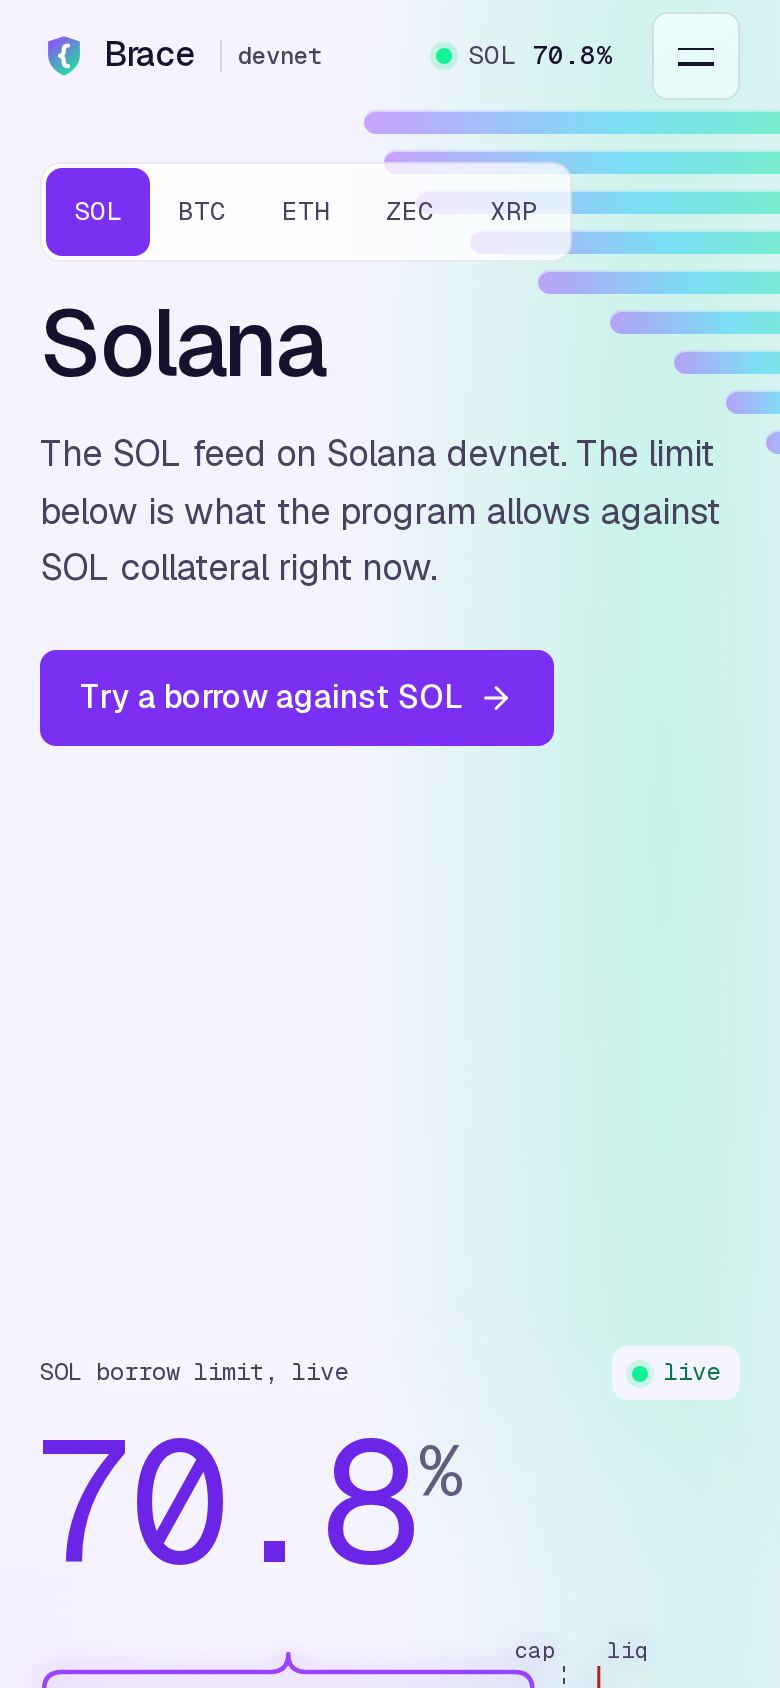
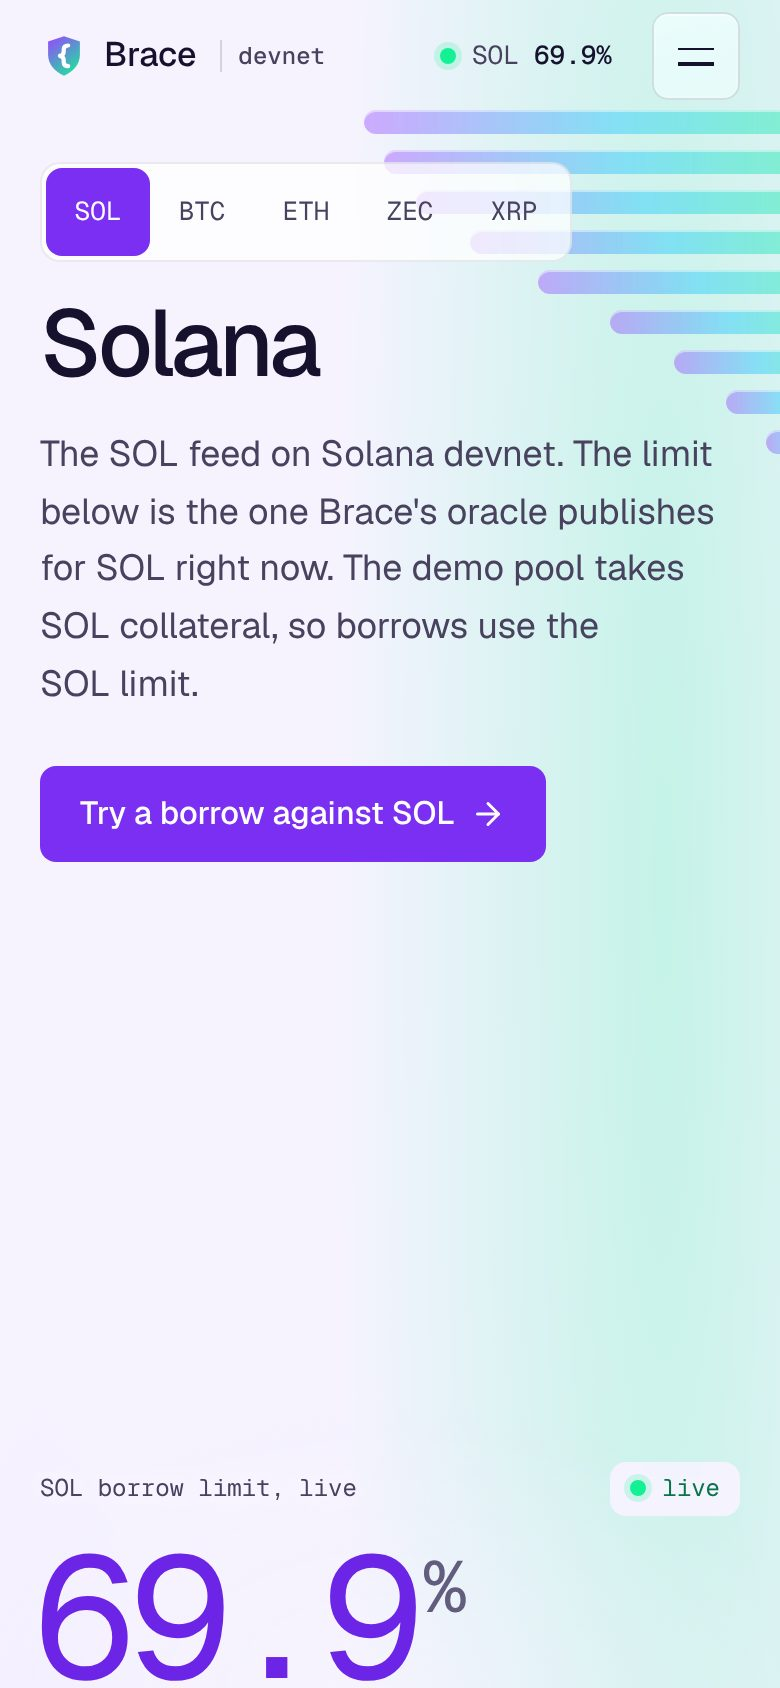
README pass (readme-playbook): retaken screenshots, factual intro, accuracy runs as a table, grouped limitations said once, History fallback described, fold label timed, daily log through Nov 20
Claude-Session: https://claude.ai/code/session_01QCfhndFDn7CsWXb6kkdhXs

diff --git a/README.md b/README.md
@@ -3,12 +3,12 @@
 **For judges:** open [braced.vercel.app](https://braced.vercel.app) (no wallet) and read SOL's live borrow limit. Then, with Phantom on Solana Devnet, borrow above that limit and watch the program reject it: [a verified rejected borrow](https://explorer.solana.com/tx/59uvMm48LV248sXSnvTV9wb8ZpVZmB8Q3ffiAsq3NU97wjU3wuSGD4EBSihWYpm1qZhrQNATA5rz5v1GWH6RVHnP?cluster=devnet). Steps are in [Try It](#try-it).
 
 <p align="center">
-  <img src="docs/images/board.png" width="260" alt="Brace on a phone: the live SOL borrow limit at 70.7% with implied volatility 73.8%, and the curve of the chance SOL ends above each strike with 8 live Gemini quotes on the fit stored onchain.">
+  <img src="docs/images/board.jpg" width="260" alt="Brace on a phone: SOL borrow limit, live, at 69.5% with implied vol 83.9%, a gauge showing the 75% cap and the 80% liquidation line, and the curve of the chance SOL ends above each strike from 13 Gemini quotes on the fit stored onchain, spot $72.10.">
 </p>
 
 **Gemini's prediction markets, turned into an onchain volatility oracle for Solana lending.**
 
-Lending markets set loan-to-value limits by governance vote and rarely change them, so limits are still the calm-week numbers when volatility arrives. Brace reads Gemini's live "price X or above" ladders, computes implied volatility onchain on Solana, and tightens borrowing limits before the move. Limits never go above the 75% admin-set cap, stale data only ever lowers them, and odds never liquidate anyone.
+Lending markets set loan-to-value limits by governance vote and rarely change them, so limits are still the calm-week numbers when volatility arrives. Brace reads Gemini's live "price X or above" ladders, computes implied volatility onchain on Solana, and lowers borrowing limits as soon as traders price a bigger move. Limits never go above the 75% admin-set cap, stale data only ever lowers them, and odds never liquidate anyone.
 
 | What | Steps, time and what it needs |
 |---|---|
@@ -25,7 +25,7 @@ You use the real app on Solana devnet, where every token is free test money. Ste
 
 1. **Open [braced.vercel.app](https://braced.vercel.app).** You see **Lending limits that move before the market does**, SOL's live borrow limit, and Gemini's ladder drawn as **chance it ends above** each strike. Scroll to **Five limits, traced for 24 hours** for SOL, BTC, ETH, XRP and ZEC.
 2. **Tap Try a borrow.** The borrow page shows the same **SOL live limit**, a **Connect wallet** button and a **Before you start** list.
-3. **Open [History](https://braced.vercel.app/history).** You see 24 hours of SOL's limit and implied volatility, and **Blocked and allowed borrows**: each **Blocked by the program** row is a borrow Solana rejected, recorded by QuickNode Streams. If History says it could not load, the relayer's free history store hit its daily read limit; it resets at 00:00 UTC (see Known Limitations). Limits and borrowing are unaffected.
+3. **Open [History](https://braced.vercel.app/history).** You see 24 hours of SOL's limit and implied volatility, and **Blocked and allowed borrows**: each **Blocked by the program** row is a borrow Solana rejected, recorded by QuickNode Streams. If the relayer's free history store has hit its daily read limit, the page says **Live history is paused for today** and charts the last 24 hours recorded before the pause; it resets at 00:00 UTC (see [Known Limitations](#known-limitations)). Limits and borrowing are unaffected.
 
 You just saw a borrow limit computed onchain from Gemini's odds, and the borrows it has already stopped.
 
@@ -53,7 +53,17 @@ Measured with Playwright Chromium at a 390 px phone viewport, cold cache, from o
 - **The math works on real Gemini data.** A captured SOL ladder used as a test fixture fits onchain to 82.7% implied volatility and a 69.6% limit (`sigma_bps` 8272, `max_ltv_bps` 6960), matching an independent float reference ([`programs/brace/tests/oracle.rs`](programs/brace/tests/oracle.rs), [`src/math.rs`](programs/brace/src/math.rs) unit tests).
[1 lines of base64/hex data omitted]
 - **Reviewed in six passes** by four separate AI reviewer sessions (not a professional audit): no critical or high findings; fixed mediums each have a reproducing test, and the open ones are listed in Known Limitations ([`docs/reviews.md`](docs/reviews.md)).
-- **Accuracy (Alchin's tracker, [`tracker/`](tracker/)):** across 8,303 one hour forecasts posted between Nov 17 04:59 and Nov 19 03:22 Lagos, the price stayed inside Brace's 1σ band 79.47% of the time and inside 2σ 97.21% (a perfectly calibrated band would hold about 68% and 95%). Counting only non overlapping hourly forecasts: 1σ 135/164 (82.32%), 2σ 160/164 (97.56%). So the limits run conservative, which is the safe side for a lender. Per asset 1σ: SOL 81.45%, BTC 71.38%, ETH 79.43%, XRP 84.91%, ZEC 81.16%. 24 hour results are preliminary because of feed gaps; BTC was under the target at 24h on this sample. These check the 1 hour 1σ and 2σ bands; the limit itself uses a 3σ 24 hour move, which needs a longer record to test. A reproducible snapshot is committed in [`docs/accuracy/2026-11-19/`](docs/accuracy/2026-11-19/): the same tracker on rows through Nov 19 06:56 Lagos gives 1σ 77.65% and 2σ 96.33% across 9,017 one hour forecasts. With a day more data, a Nov 20 snapshot in [`docs/accuracy/2026-11-20/`](docs/accuracy/2026-11-20/) gives 1σ 78.15% and 2σ 96.55% across 15,656 forecasts, and Alchin's own run that morning gave 79.0% and 96.7% across 14,393.
+- **Accuracy (Alchin's tracker, [`tracker/`](tracker/)):** the price landed inside Brace's 1σ band about 78 to 79% of the time across every run, and inside 2σ about 96 to 97%. A perfectly calibrated band holds about 68% and 95%, so the limits run conservative, the safe side for a lender. Each forecast is a one hour band posted every minute, so consecutive forecasts overlap.
+
+  | Run | Forecasts | 1σ | 2σ | Check it |
+  |---|---|---|---|---|
+  | Alchin, pull at 04:22 Lagos, Nov 19 (rows from Nov 17 04:59) | 8,303 | 79.47% | 97.21% | His tracker run; same rows feed the snapshots below |
+  | Same, only non-overlapping hours | 164 | 82.32% | 97.56% | |
+  | Snapshot to Nov 19 06:56 Lagos | 9,017 | 77.65% | 96.33% | [`docs/accuracy/2026-11-19/`](docs/accuracy/2026-11-19/), reproduce command inside |
+  | Alchin, run at 01:17 Lagos, Nov 20 | 14,393 | 79.0% | 96.7% | His tracker run |
+  | Snapshot to Nov 20 05:35 Lagos | 15,656 | 78.15% | 96.55% | [`docs/accuracy/2026-11-20/`](docs/accuracy/2026-11-20/), reproduce command inside |
+
+  Per asset at 1σ on the Nov 20 snapshot: SOL 76.9%, BTC 70.4%, ETH 78.8%, XRP 83.4%, ZEC 81.8%. These test the 1 hour 1σ and 2σ bands; the limit itself uses a 3σ 24 hour move, which needs a longer record (24 hour results so far are preliminary because of feed gaps).
 
 ## What's New Here
 
@@ -106,9 +116,9 @@ Sources were fetched on Nov 17, 2026. Each competitor cell is as that vendor's c
 | Brace program (oracle, limits, pool, liquidation) | Live on Solana devnet at the address above. 52/52 Rust tests passed on Nov 19, 2026. |
 | Relayer Worker (Cloudflare, every minute) | Live at [brace-relayer.ohjaye0.workers.dev](https://brace-relayer.ohjaye0.workers.dev/health). 117/117 worker tests passed on main on Nov 19, 2026. The live Worker runs an earlier build: the forged-history fix (audit pass 6, M3) and the backup RPC (PR #4) are on main and deploy next. |
 | Keyed backup RPC for the relayer (PR #4) | In code on main and covered by the worker tests; not yet deployed to the live Worker. |
-| Streams sink and `/history` API | Live. `/history?asset=SOL` is oldest-first. `/actions` has recorded the verified deposit, blocked borrow and accepted borrow. Bad input gets a 400 with a plain error; responses are capped at 10,000 rows (page forward with `since`). |
+| Streams sink and `/history` API | Live, except when the free D1 read limit runs out (see [Known Limitations](#known-limitations)). `/history?asset=SOL` is oldest-first. `/actions` has recorded the verified deposit, blocked borrow and accepted borrow. Bad input gets a 400 with a plain error; responses are capped at 10,000 rows (page forward with `since`). |
 | Web app (risk board, borrow flow, history) | Live at [braced.vercel.app](https://braced.vercel.app). 108/108 app tests passed on main on Nov 19, 2026. The board and History read the relayer through the app's cached `/api/history` and `/api/actions` routes. |
-| Accuracy tracker (Python, [`tracker/`](tracker/)) | Measured by Alchin from a live `/history` pull at 04:22 Lagos, Nov 19: 1σ band held 79.47% and 2σ 97.21% across 8,303 one hour forecasts (see Proof It's Real). |
+| Accuracy tracker (Python, [`tracker/`](tracker/)) | Running. Polls `/history` every 5 minutes, fetching only new rows after the first pull. Latest: 1σ 78.15% and 2σ 96.55% across 15,656 one hour forecasts (Nov 20 snapshot; see [Proof It's Real](#proof-its-real)). 10/10 tracker tests pass (`python3 tracker/test_tracker.py`). |
 
 ## More Ways to Test
 
@@ -124,13 +134,13 @@ Checks the app returns 200, the relayer is healthy and all five feeds posted in 
 
 </details>
 
-<details><summary><strong>2. One command for everything (not timed end to end; Rust 1.89, Solana CLI with cargo build-sbf, Node 20+)</strong></summary>
+<details><summary><strong>2. One command for everything (about 15 minutes from cold; Rust 1.89, Solana CLI with cargo build-sbf, Node 20+)</strong></summary>
 
 ```bash
 scripts/verify.sh
 ```
 
-Builds the program, runs the Rust, worker and app suites with type checks, builds the app, then runs the live checks. It stops at the first failure. The fuzz run alone took 48 to 80 s on Nov 19, 2026, depending on the machine; the whole script takes about 15 minutes from cold.
+Builds the program, runs the Rust, worker and app suites with type checks, builds the app, then runs the live checks. It stops at the first failure. The fuzz run alone took 48 to 80 s on Nov 19, 2026, depending on the machine. If the history store is paused, the last line says so instead of `all checks passed`.
 
 </details>
 
@@ -150,7 +160,7 @@ Expected: 52 Rust tests (15 math, 12 adversarial, 1 fuzz run of 3,000 random act
 
 ## Screenshots
 
-Real captures of the live site on a 390 px phone viewport, Nov 19, 2026. Devnet data, test money.
+Real captures of the live site on a 390 px phone viewport, Nov 20, 2026, 06:00 Lagos. Devnet data, test money.
 
 <p align="center">
   <img src="docs/images/borrow.jpg" width="160" alt="The borrow page: Borrow up to the line, SOL live limit 70.8% at spot $74.46, and a Connect wallet button.">
@@ -196,7 +206,7 @@ Each Gemini contract "price ≥ K at expiry" trades at a probability. Under a lo
 1. Keep quotes with both sides, spread ≤ 15 cents, mid between 3% and 97%; skip strikes more than 15% from the middle strike.
 2. Least-squares fit gives σ√T and the implied median. The strikes must span at least 0.5%, and σ must be at least 5%.
 3. Move over 24 hours: s = σ√T·√(24h/T). Limit = 80% × (1 − 3s), clamped between 30% and the 75% admin-set cap.
-4. Stale data: hold the last limit for 5 minutes, then step down 2.5 points every 5 minutes, never below 50% (or the last limit if lower). After an hour, borrowing and liquidation pause.
+4. Stale data: hold the last limit for 5 minutes, then step down 2.5 points every 5 minutes, never below 50% (or the last limit if lower). After an hour without a confident post, borrowing and liquidation pause.
 
 </details>
 
@@ -214,20 +224,19 @@ Reviewed in six passes (correctness, access control, financial logic, adversaria
 
 ### Known Limitations
 
-- **The relayer is trusted** for quotes and the spot price. Mitigations: spot only moves on confident posts, must sit within 3% of the ladder's implied median, and goes stale after an hour.
-- **`initialize` can be front-run** between deploy and setup. Deploy, initialize and pool setup run back to back from one script, and the stored admin is checked afterwards.
-- **Liquidation repays the full debt** only. Test USD has no value.
+**Trust and control**
+- **The relayer is a single trusted key** for quotes and the spot price; nothing onchain proves the quotes came from Gemini, and there is no quorum or second source. Mitigations: spot only moves on confident posts and must sit within 3% of the ladder's implied median, and every limit stays between 30% and 75%. Thin ladders (3 two-sided quotes, spreads up to 15 cents) can still pull the fitted volatility down, inside that band.
 - **One admin key, no timelock.** The admin (`FncbMM…SvdM` on devnet) can change the 75% cap, the 80% liquidation threshold and the other parameters at any time with `set_params`. Odds never trigger a liquidation, but a lower threshold set by the admin would. Production needs a multisig and a timelock.
-- **Collateral can be priced with an old spot for up to an hour.** Spot only updates on confident posts. In a crash where Gemini's ladder lags spot by more than 3%, liquidation runs on the pre-crash price; after a dip, a healthy position can be liquidated on the old dip price. Both last at most an hour, until `StalePrice`. The fix is a separate, shorter freshness clock for spot (audit pass 6, M1 and M2).
+- **`initialize` can be front-run** between deploy and setup. Deploy, initialize and pool setup run back to back from one script, and the stored admin is checked afterwards.
+
+**Prices and liquidation**
+- **Collateral can be priced with a spot up to an hour old.** Spot only updates on confident posts. Borrows meanwhile face a limit that decays toward the 50% stale floor. In a crash where Gemini's ladder lags spot by more than 3%, liquidation runs on the pre-crash price; after a dip, a healthy position can be liquidated on the old dip price. An hour after the last confident post, `liquidate` fails with `StalePrice`, so positions can build bad debt. That is the cost of failing safe; the fix is a separate, shorter freshness clock for spot (audit pass 6, M1 and M2).
+- **Liquidation repays the full debt only, and there is no write-off.** The liquidator gets SOL worth the debt plus 5%, capped at the collateral, so above about 95% LTV the bonus shrinks and above 100% liquidating loses money.
 - **Rounding can loosen a limit slightly.** Midpoints snap to 50 bps steps before the fit, so on steep or narrow ladders the limit can be up to about 1.5 points looser than a floating point fit, still capped at 75%.
-- **Liquidation pauses on a stale price.** In a fast crash the fits can go non-confident, so spot stops updating; an hour after the last confident post, `liquidate` fails with `StalePrice` and positions can build bad debt. That is the cost of failing safe.
-- **No write-off for deeply underwater positions.** Liquidation pays the debt plus a 5% bonus in SOL, capped at the collateral, so above about 95% LTV the bonus shrinks and above 100% liquidating loses money. There is no instruction to write such a position off.
-- **Borrows can price collateral with spot up to an hour old.** The limit decays toward the 50% stale floor meanwhile (2.5 points every 5 minutes), but the price itself is not refreshed.
-- **Thin ladders can be leaned on.** A post counts with only 3 two-sided quotes and spreads up to 15 cents, so a few quotes could pull the fitted volatility down; the limit that results is still capped at 75%.
-- **The relayer is a single trusted key.** One keypair posts every feed; there is no quorum or second source.
-- **History can pause; limits cannot.** The relayer stores Streams rows in Cloudflare D1 on the free plan, which has a daily read limit. When it runs out, the relayer's `/history` and `/actions` answer 503 until 00:00 UTC, and the History page says so. Onchain posting, the board's live limits and borrowing are unaffected. The app now reads history through a cached proxy (5 minute buckets, served stale on error) so viewers share one read.
-- **Interest is 0%.** This is a risk-limit demo, not a full lending market.
-- **Devnet only.** Gemini liquidity is thin: quotes exist, trades are rare, which is why confidence scoring and fail-safe staleness exist.
+
+**Demo scope**
+- **Devnet only, 0% interest, test USD with no value.** This is a risk-limit demo, not a full lending market. Gemini liquidity is thin: quotes exist, trades are rare, which is why confidence scoring and fail-safe staleness exist.
+- **History can pause; limits cannot.** The relayer stores Streams rows in Cloudflare D1 on the free plan, which has a daily read limit. When it runs out, the relayer's `/history` and `/actions` answer 503 until 00:00 UTC. The History page then says **Live history is paused for today** and charts a saved copy of the last 24 hours recorded before the pause. Onchain posting, the board's live limits and borrowing are unaffected.
 - **Phantom simulation of an over-limit borrow.** Phantom simulates before it signs, and the program refuses an over-limit borrow, so Phantom shows "Failed to simulate the results of this request". The user has to confirm past that warning for the rejected transaction to land onchain; the borrow page explains each tap first. Phantom also shows a new-domain notice for any site it has not reviewed yet.
 
 <details><summary><strong>Repository</strong></summary>
@@ -265,7 +274,8 @@ Reviewed in six passes (correctness, access control, financial logic, adversaria
 | Mon Nov 16 | Spec and plan, Anchor workspace, onchain implied volatility math, oracle feed and quote posting, demo lending pool, fuzz and invariant suite, first review fixes |
 | Tue Nov 17 | Review pass 5 fixes, Cloudflare relayer Worker, Streams sink and history API, devnet deploy, risk board, borrow flow, history page, verify script, MIT licence |
 | Wed Nov 18 | Repo hygiene, Alchin's forecast validation tracker, site redesign, relayer D1 outage fix, Phantom borrow proof, new logo and share card |
-| Thu Nov 19 | Fresh test counts, privacy page, web analytics, rate limits, tablet header fix, README claims audit, keyed backup RPC (PR #4), this README |
+| Thu Nov 19 | Fresh test counts, privacy page, web analytics, rate limits, tablet header fix, keyed backup RPC (PR #4), ship check, cached history proxy, audit pass 6 (independent security audit, two cold judge runs, claims audit) and its fixes, security headers, tracker polling fix |
+| Fri Nov 20 | Nov 20 accuracy snapshot, refreshed History fallback, team names, retaken screenshots, this README pass |
 
 Check: `git log --reverse --format='%h %ad %s' --date=iso`.
 

diff --git a/docs/submission-draft.md b/docs/submission-draft.md
@@ -147,7 +147,7 @@ solana, anchor, rust, typescript, next.js, react, vercel, cloudflare-workers, cl
 
 ## Step 7: Image gallery (optional, 3:2 suggested)
 
-- `docs/images/board.png` (the README phone shot of the board)
+- `docs/images/board.jpg` (the README phone shot of the board)
 - `app/app/opengraph-image.jpg`
 - Fresh phone screenshots from the recording day: the asset page, the rejected-borrow message, the History page.
 
